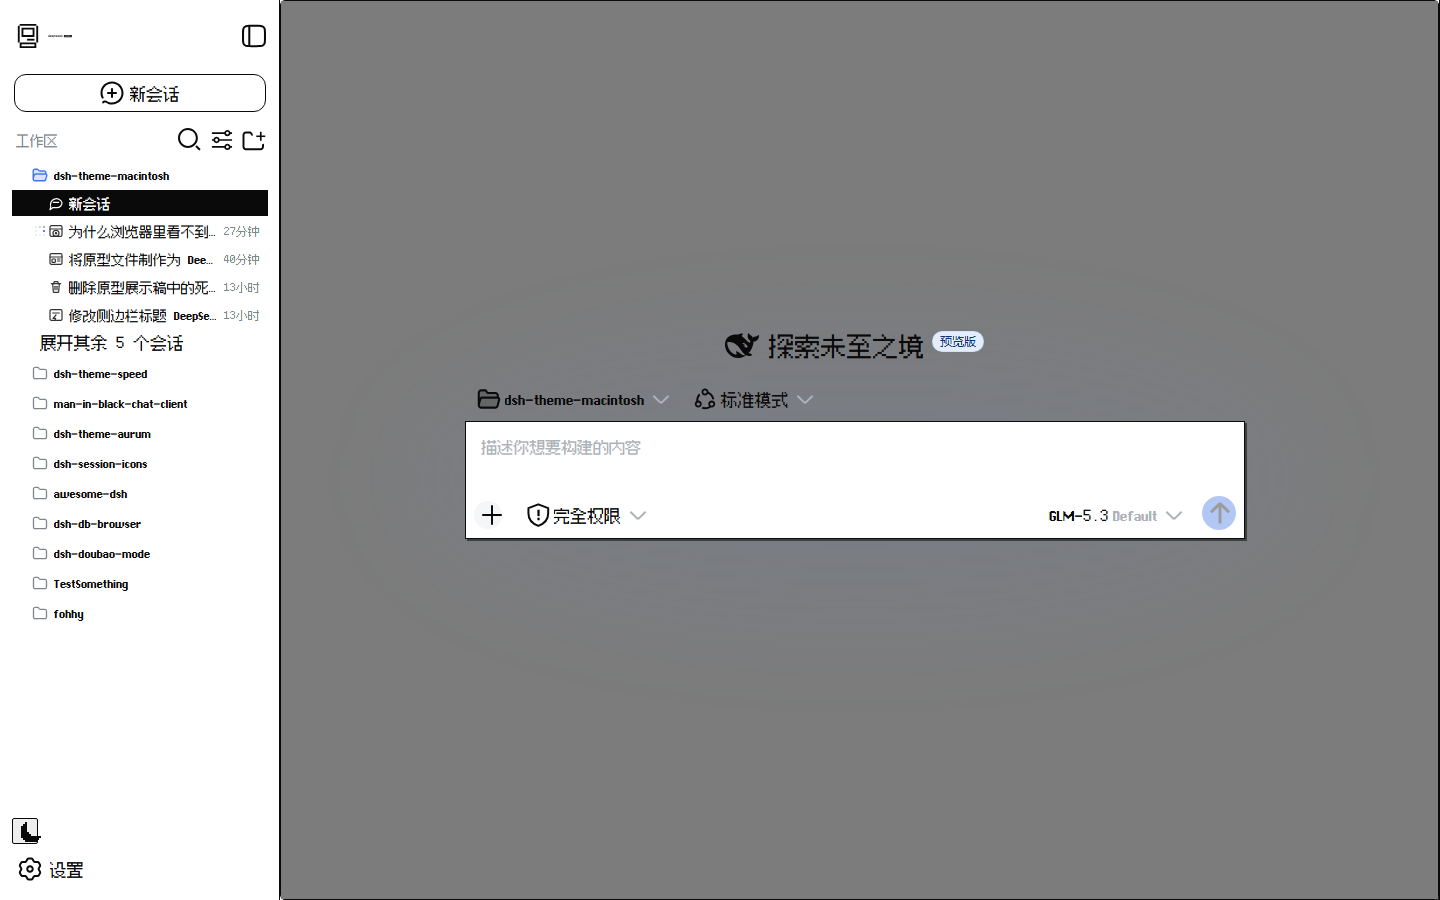
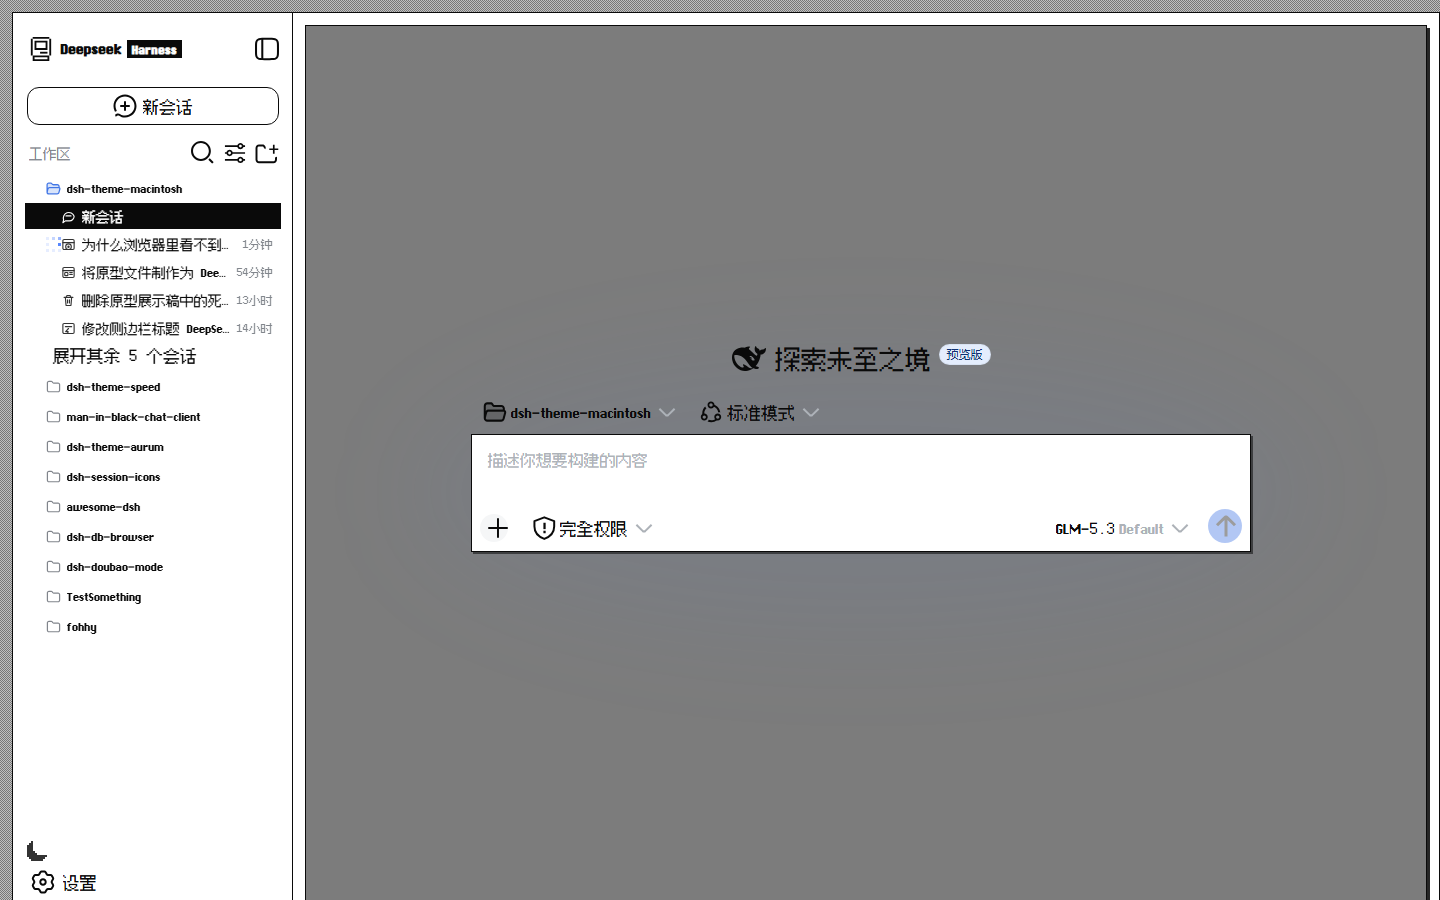
feat(mcx-精修): 一期视觉精修四项——①侧栏 Finder 成窗（四边1px黑边+3px硬投影+直角+12px桌面缝隙margin，主窗同步改直角）②月牙钮按原型页脚规格（15px图标/18px无边框容器/muted色）③品牌行经 sidebar.brand.name 席位注入 Deepseek+Harness 反色标签 ④会话树图标统一15px；client.js 与 src/ 同步修改，audit 全绿，probe-refine 全项确认

Changed region(s): [[0.0, 0.0, 1.0, 1.0], [0.3125, 0.4356, 0.875, 0.6222], [0.5, 0.3422, 0.6875, 0.4356]]

diff --git a/client.js b/client.js
@@ -479,9 +479,10 @@ const McChrome = {
     // frame 底色让位：AppFrame 根自带实底 background(--dsw-alias-bg-base)，不清掉会盖住桌面噪点；
     // 各列（sidebarCol/detailsCol/主窗）自有实底，不受影响
     `${MC_MAP.appRoot}{background:transparent}`,
-    // 主列 = 会话窗（.win 语汇）：surface 底 + 1px 边 + 5px 圆角 + 3px 硬投影。
+    // 主列 = 会话窗（.win 语汇）：surface 底 + 1px 边 + 3px 硬投影。
+    // 桌面两大窗 = 直角（原型 .desk > .win{border-radius:0}）；margin 留出桌面缝隙（两侧窗浮在噪点桌面上）。
     // 刻意不收 overflow —— 宿主自管滚动（centerCol overflow:hidden + data-conversation-scroll）
-    `${MC_MAP.mainColumn}{background:var(--mc-surface);border:1px solid var(--mc-border);border-radius:var(--mc-r-window);box-shadow:var(--mc-shadow-panel)}`,
+    `${MC_MAP.mainColumn}{background:var(--mc-surface);border:1px solid var(--mc-border);border-radius:0;box-shadow:var(--mc-shadow-panel);margin:12px}`,
     // 会话头部条：surface-3 + 1px 底线（宿主 header::after 线已由 token 别名染成 --mc-border，视觉重叠成加重底线）
     `${MC_MAP.sessionHeader}{background:var(--mc-surface-3);border-bottom:1px solid var(--mc-border)}`,
     // 滚动口：最小干预 —— 只给深一档底色（窗内"文档区"），滚动条走 tokens 已有的全局 15px 经典款
@@ -518,11 +519,18 @@ let mcThemeOrig = undefined;
 
 const McSidebar = {
   css: [
-    // 侧栏列 = Finder 窗：rail-1 底 + 1px 右边线；整窗字体 --font-sb（§7.1）
-    `${MC_MAP.sidebar}{background:var(--mc-rail-1);border-right:1px solid var(--mc-border);font-family:var(--font-sb)}`,
-    // 品牌行：字号 17px（finder 图标 24px 经 sidebar.brand.mark 席位注入，见 slots）
+    // 侧栏列 = Finder 窗（.win 语汇完整版）：rail-1 底 + 四边 1px 黑边 + 3px 硬投影 + 直角；
+    // margin 让窗浮在桌面噪点上（上/下/左各 12px，右边线由 border 提供）。整窗字体 --font-sb（§7.1）
+    `${MC_MAP.sidebar}{background:var(--mc-rail-1);border:1px solid var(--mc-border);border-radius:0;box-shadow:var(--mc-shadow-panel);margin:12px 0 12px 12px;font-family:var(--font-sb)}`,
+    // 品牌行：字号 17px（finder 图标 24px 经 sidebar.brand.mark 席位注入，见 slots）；
+    // 名称经 sidebar.brand.name 席位注入 "Deepseek + Harness" 反色标签（原型 sb-head §4）
     `${MC_MAP.sidebarBrand}{font:400 17px/1 var(--font-sb);color:var(--mc-fg)}`,
     `${MC_MAP.sidebarBrand} svg{width:24px;height:24px;flex:none}`,
+    '.mc-sb-name{display:inline-flex;align-items:center;min-width:0}',
+    '.mc-sb-brand{font:700 17px/1.2 var(--font-sb);letter-spacing:.02em;color:var(--mc-fg)}',
+    '.mc-sb-tag{font:600 14px/1.2 var(--font-sb);background:var(--mc-fg);color:var(--mc-rail-1);padding:1px 5px;margin-left:5px;flex:none}',
+    // 会话树图标统一 15px（原型 group-head svg 15px；行内小钮 12px 走 18px 容器）
+    `${MC_MAP.sessionRow} svg{width:15px;height:15px;flex:none}`,
     // 会话行：26px 细长条、单行 ellipsis、13px --font-sb、左缩进 20px（§7.2 行序）
     `${MC_MAP.sessionRow}{height:26px;display:flex;align-items:center;padding-left:20px;` +
       `overflow:hidden;white-space:nowrap;text-overflow:ellipsis;` +
@@ -577,7 +585,8 @@ const McSidebar = {
         'aria-label': '切换深浅主题',
         title: '切换深浅主题',
         onClick: flip,
-      }, React.createElement('svg', null, React.createElement('use', { href: '#i-moon' })));
+        style: { background: 'none', border: 'none', padding: 0, margin: 0, width: '18px', height: '18px', display: 'grid', placeItems: 'center', color: 'var(--mc-muted)', cursor: 'pointer' },
+      }, React.createElement('svg', { width: 15, height: 15, 'aria-hidden': true, style: { display: 'block' } }, React.createElement('use', { href: '#i-moon' })));
     })));
     // 品牌图标：Finder 24px 换掉宿主 FishLogo。single 槽必须以更低 priority 遮蔽注册
     // （官方占位 priority 0，lowest renders —— 同 0 会抛 "already has a registration"）。
@@ -592,6 +601,18 @@ const McSidebar = {
         width: 24, height: 24, 'aria-hidden': true,
         style: { color: 'var(--mc-fg)', display: 'block' },
       }, React.createElement('use', { href: '#i-finder' }));
+    })));
+    // 品牌名：sb-head 语汇 —— "Deepseek" 17px 粗体 + "Harness" 反色小标签（原型 §4 sb-name）。
+    // single 槽同样以 priority:-1 遮蔽官方 wordmark。
+    ctx.effect(() => wait('sidebar.brand.name', () => reg({
+      name: 'sidebar.brand.name',
+      priority: -1,
+      label: () => 'Deepseek Harness',
+    }, function BrandName() {
+      if (typeof React === 'undefined') return null;
+      return React.createElement('span', { className: 'mc-sb-name' },
+        React.createElement('span', { className: 'mc-sb-brand' }, 'Deepseek'),
+        React.createElement('span', { className: 'mc-sb-tag' }, 'Harness'));
     })));
   },
 };

diff --git a/src/chrome/sidebar.js b/src/chrome/sidebar.js
@@ -7,11 +7,18 @@ let mcThemeOrig = undefined;
 
 const McSidebar = {
   css: [
-    // 侧栏列 = Finder 窗：rail-1 底 + 1px 右边线；整窗字体 --font-sb（§7.1）
-    `${MC_MAP.sidebar}{background:var(--mc-rail-1);border-right:1px solid var(--mc-border);font-family:var(--font-sb)}`,
-    // 品牌行：字号 17px（finder 图标 24px 经 sidebar.brand.mark 席位注入，见 slots）
+    // 侧栏列 = Finder 窗（.win 语汇完整版）：rail-1 底 + 四边 1px 黑边 + 3px 硬投影 + 直角；
+    // margin 让窗浮在桌面噪点上（上/下/左各 12px，右边线由 border 提供）。整窗字体 --font-sb（§7.1）
+    `${MC_MAP.sidebar}{background:var(--mc-rail-1);border:1px solid var(--mc-border);border-radius:0;box-shadow:var(--mc-shadow-panel);margin:12px 0 12px 12px;font-family:var(--font-sb)}`,
+    // 品牌行：字号 17px（finder 图标 24px 经 sidebar.brand.mark 席位注入，见 slots）；
+    // 名称经 sidebar.brand.name 席位注入 "Deepseek + Harness" 反色标签（原型 sb-head §4）
     `${MC_MAP.sidebarBrand}{font:400 17px/1 var(--font-sb);color:var(--mc-fg)}`,
     `${MC_MAP.sidebarBrand} svg{width:24px;height:24px;flex:none}`,
+    '.mc-sb-name{display:inline-flex;align-items:center;min-width:0}',
+    '.mc-sb-brand{font:700 17px/1.2 var(--font-sb);letter-spacing:.02em;color:var(--mc-fg)}',
+    '.mc-sb-tag{font:600 14px/1.2 var(--font-sb);background:var(--mc-fg);color:var(--mc-rail-1);padding:1px 5px;margin-left:5px;flex:none}',
+    // 会话树图标统一 15px（原型 group-head svg 15px；行内小钮 12px 走 18px 容器）
+    `${MC_MAP.sessionRow} svg{width:15px;height:15px;flex:none}`,
     // 会话行：26px 细长条、单行 ellipsis、13px --font-sb、左缩进 20px（§7.2 行序）
     `${MC_MAP.sessionRow}{height:26px;display:flex;align-items:center;padding-left:20px;` +
       `overflow:hidden;white-space:nowrap;text-overflow:ellipsis;` +
@@ -66,7 +73,8 @@ const McSidebar = {
         'aria-label': '切换深浅主题',
         title: '切换深浅主题',
         onClick: flip,
-      }, React.createElement('svg', null, React.createElement('use', { href: '#i-moon' })));
+        style: { background: 'none', border: 'none', padding: 0, margin: 0, width: '18px', height: '18px', display: 'grid', placeItems: 'center', color: 'var(--mc-muted)', cursor: 'pointer' },
+      }, React.createElement('svg', { width: 15, height: 15, 'aria-hidden': true, style: { display: 'block' } }, React.createElement('use', { href: '#i-moon' })));
     })));
     // 品牌图标：Finder 24px 换掉宿主 FishLogo（single 席；动态条目优先于出厂件，实现换标）
     ctx.effect(() => wait('sidebar.brand.mark', () => reg({
@@ -79,6 +87,18 @@ const McSidebar = {
         width: 24, height: 24, 'aria-hidden': true,
         style: { color: 'var(--mc-fg)', display: 'block' },
       }, React.createElement('use', { href: '#i-finder' }));
+    })));
+    // 品牌名：sb-head 语汇 —— "Deepseek" 17px 粗体 + "Harness" 反色小标签（原型 §4 sb-name）。
+    // single 槽以 priority:-1 遮蔽官方 wordmark（与 brand.mark 同规则）。
+    ctx.effect(() => wait('sidebar.brand.name', () => reg({
+      name: 'sidebar.brand.name',
+      priority: -1,
+      label: () => 'Deepseek Harness',
+    }, function BrandName() {
+      if (typeof React === 'undefined') return null;
+      return React.createElement('span', { className: 'mc-sb-name' },
+        React.createElement('span', { className: 'mc-sb-brand' }, 'Deepseek'),
+        React.createElement('span', { className: 'mc-sb-tag' }, 'Harness'));
     })));
   },
 };

diff --git a/src/chrome/chrome.js b/src/chrome/chrome.js
@@ -7,9 +7,10 @@ const McChrome = {
     // frame 底色让位：AppFrame 根自带实底 background(--dsw-alias-bg-base)，不清掉会盖住桌面噪点；
     // 各列（sidebarCol/detailsCol/主窗）自有实底，不受影响
     `${MC_MAP.appRoot}{background:transparent}`,
-    // 主列 = 会话窗（.win 语汇）：surface 底 + 1px 边 + 5px 圆角 + 3px 硬投影。
+    // 主列 = 会话窗（.win 语汇）：surface 底 + 1px 边 + 3px 硬投影。
+    // 桌面两大窗 = 直角（原型 .desk > .win{border-radius:0}）；margin 留出桌面缝隙（两侧窗浮在噪点桌面上）。
     // 刻意不收 overflow —— 宿主自管滚动（centerCol overflow:hidden + data-conversation-scroll）
-    `${MC_MAP.mainColumn}{background:var(--mc-surface);border:1px solid var(--mc-border);border-radius:var(--mc-r-window);box-shadow:var(--mc-shadow-panel)}`,
+    `${MC_MAP.mainColumn}{background:var(--mc-surface);border:1px solid var(--mc-border);border-radius:0;box-shadow:var(--mc-shadow-panel);margin:12px}`,
     // 会话头部条：surface-3 + 1px 底线（宿主 header::after 线已由 token 别名染成 --mc-border，视觉重叠成加重底线）
     `${MC_MAP.sessionHeader}{background:var(--mc-surface-3);border-bottom:1px solid var(--mc-border)}`,
     // 滚动口：最小干预 —— 只给深一档底色（窗内"文档区"），滚动条走 tokens 已有的全局 15px 经典款
